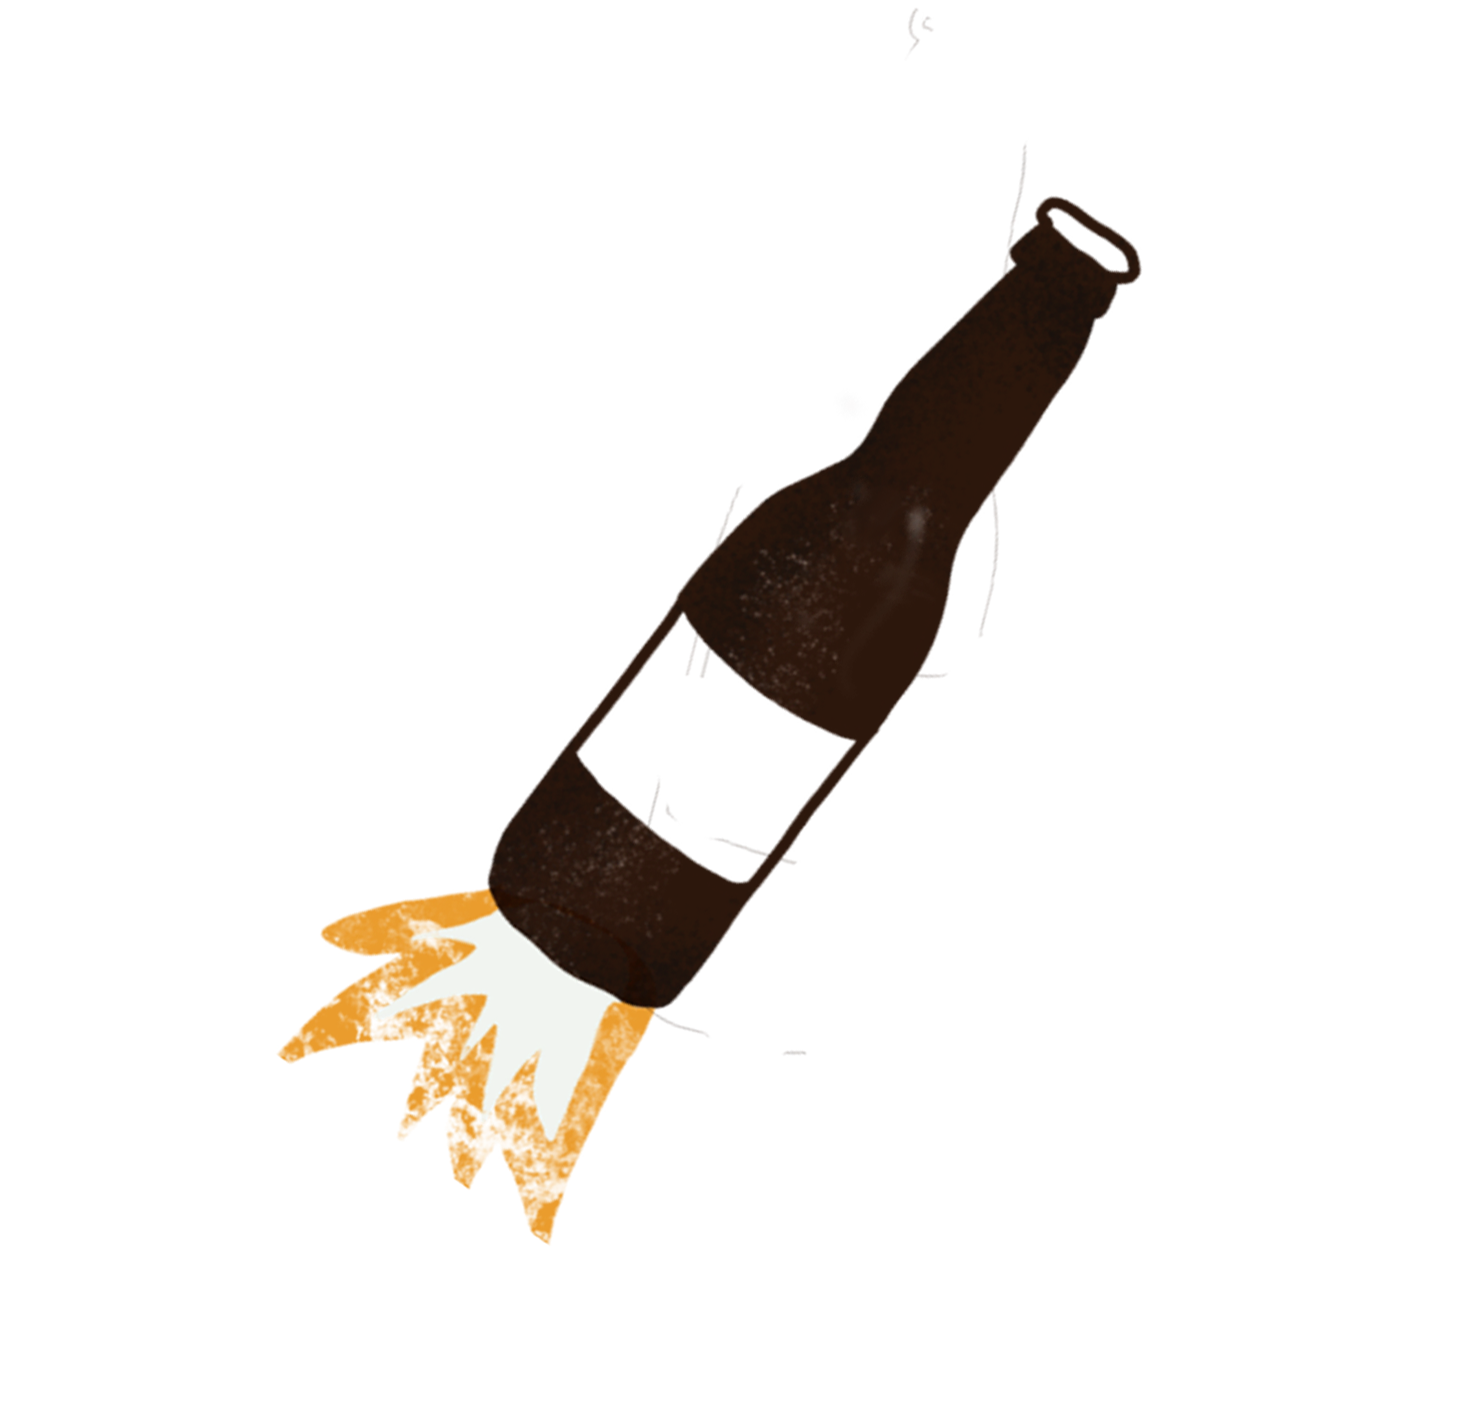
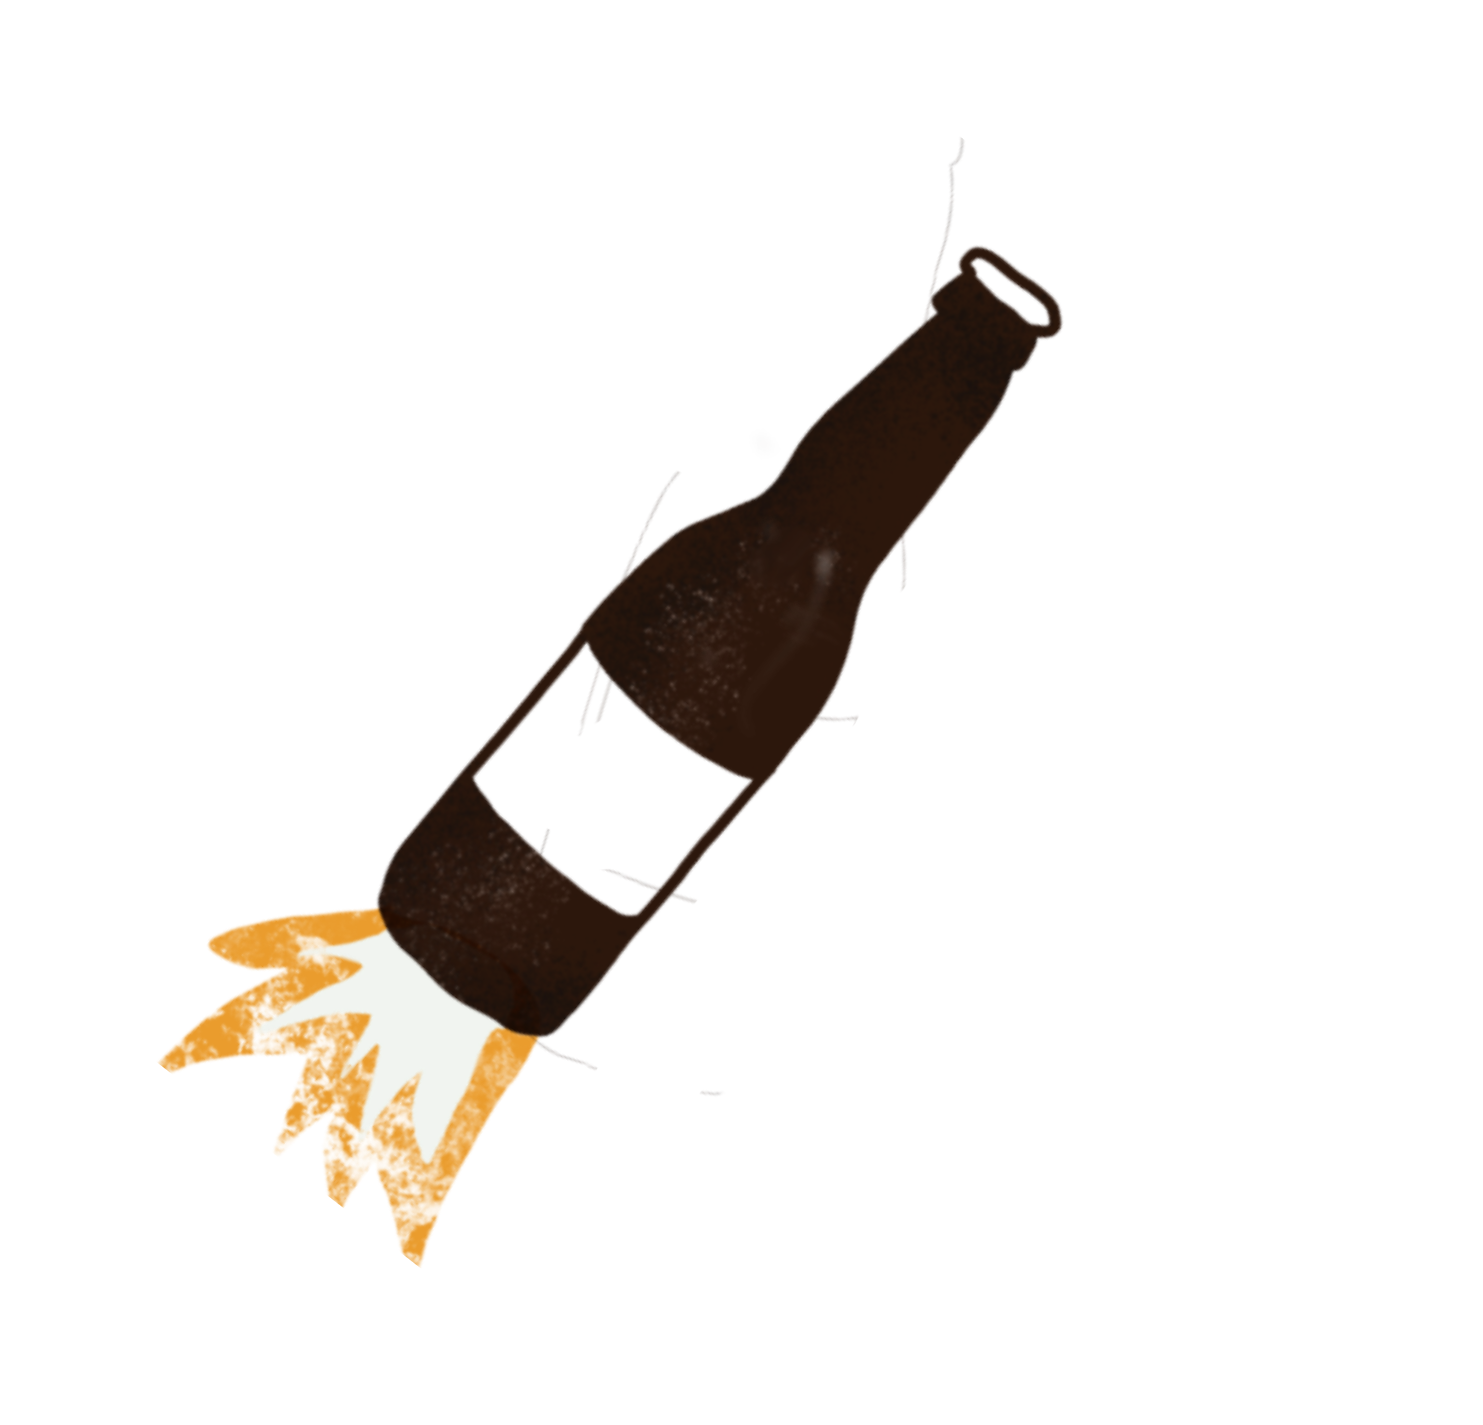
new gif startBier

Changed region(s): [[0.0931, 0.1235, 0.7755, 0.8954], [0.5273, 0.3705, 0.5583, 0.4014]]

diff --git a/locations.js b/locations.js
@@ -355,13 +355,15 @@ mapboxgl.accessToken = 'pk.eyJ1Ijoibndmd3NiIiwiYSI6ImNsNHNyaDBnbjBlenIzZGxhejg5e
                               kreis.setAttribute("id","circle");
                               document.getElementById("labels").appendChild(kreis);
                              
-                              var bild = document.createElement("IMG");
-                              bild.setAttribute("src", "./footage/startBier.gif");
-                              bild.setAttribute("alt", "startBier");
-                              bild.setAttribute("onclick", "infoblock()");
-                              bild.setAttribute("class","added");
-                              document.getElementById("circle").appendChild(bild);
-                              var kreis = document.createElement("div");
+                           
+
+                      var bild = document.createElement("IMG");
+                      bild.setAttribute("src", "./footage/startBier.png");
+                      bild.setAttribute("alt", "startBier");
+                      bild.setAttribute("id", "startBier");
+                      bild.setAttribute("onclick", "gifStart()");
+                      bild.setAttribute("class","added");
+                      document.getElementById("circle").appendChild(bild);
       
                               document.getElementById("hidden").style.width = "47vw";
                               document.getElementById("hidden").style.backgroundColor = 'transparent';
